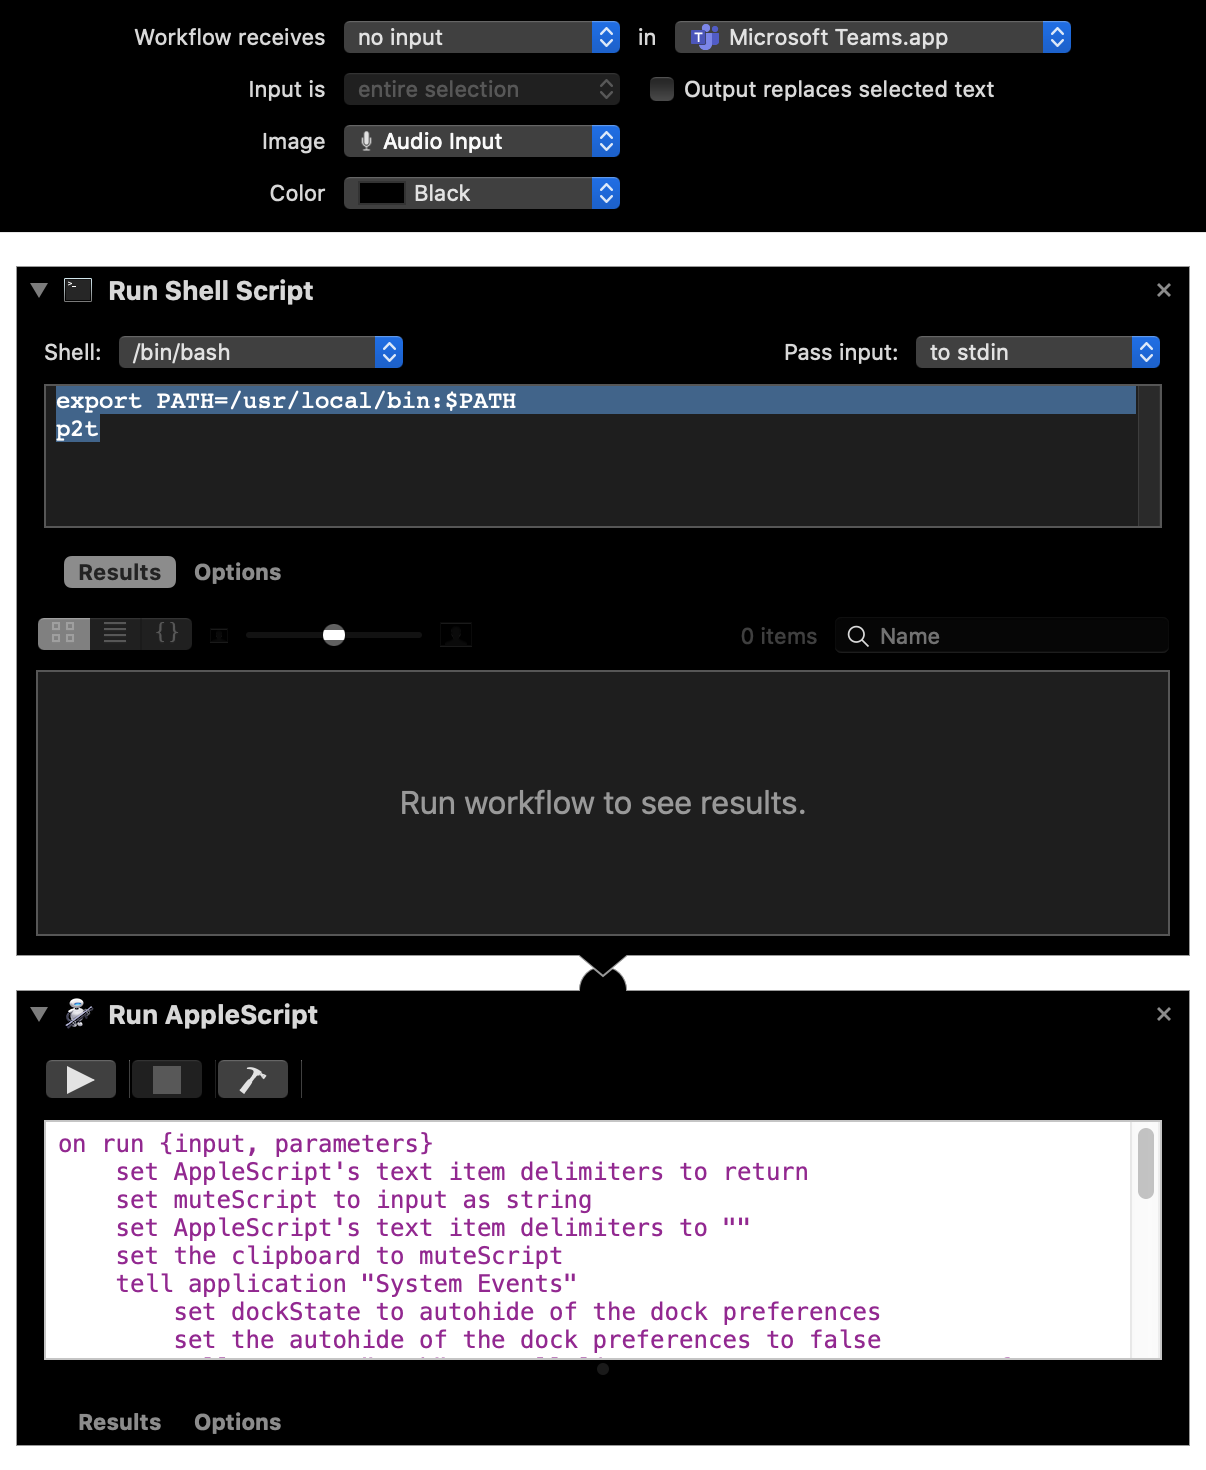
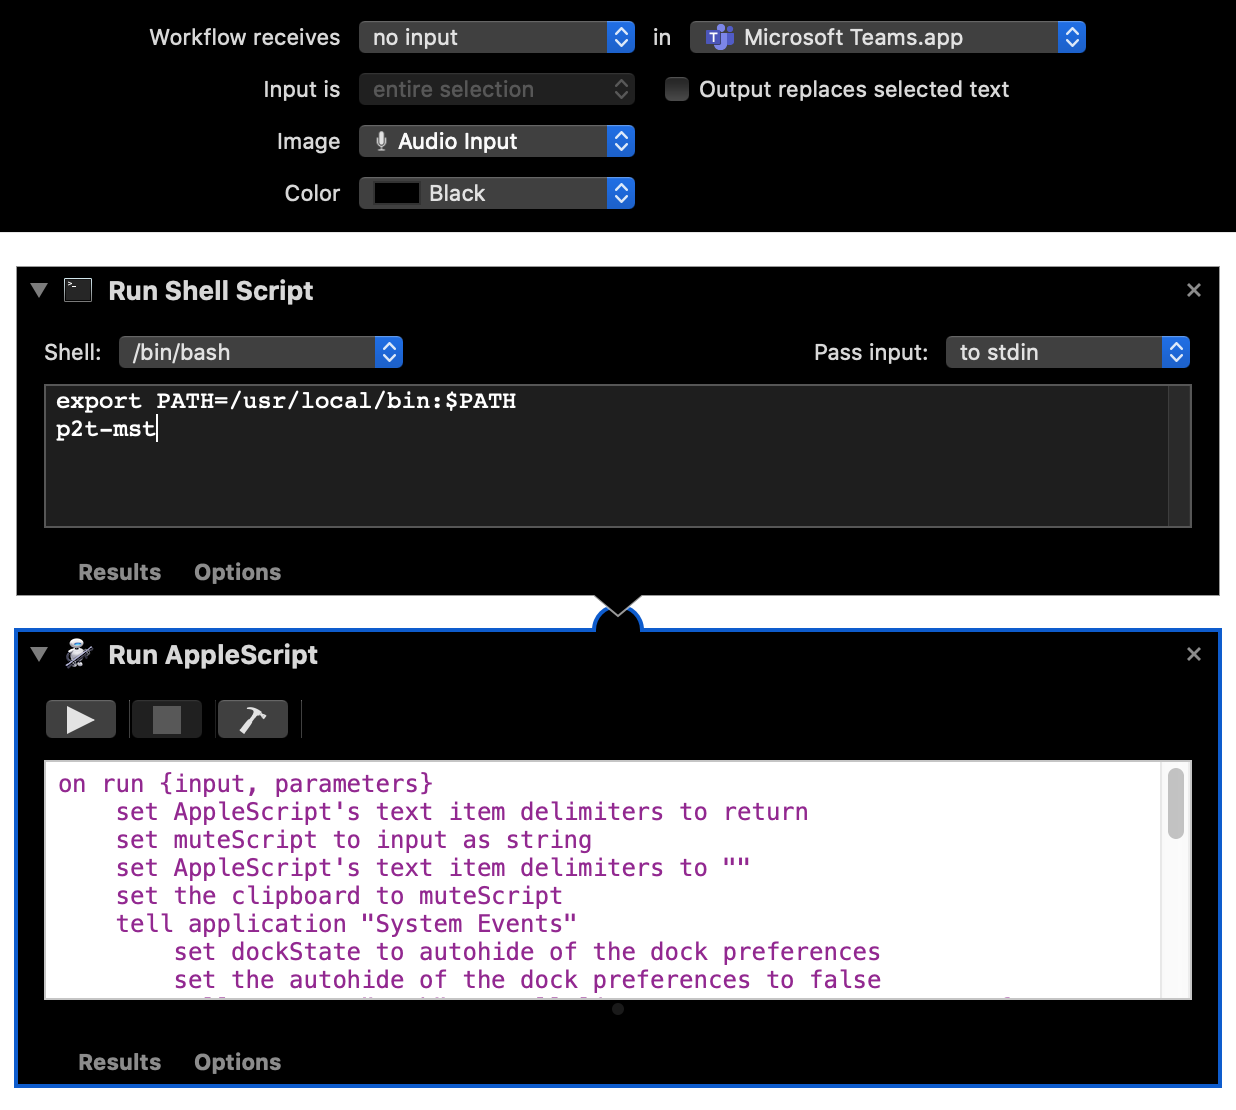
Update all code references from 'p2t' to 'p2t-mst' to match the npm package name

diff --git a/README.md b/README.md
@@ -4,14 +4,14 @@ This package contains code that when executed within the console of a Microsoft 
 ### Installation
 Basic installation:
 ```
-npm i -g p2t
+npm i -g p2t-mst
 ```
 
 **For MacOS users**
 
 This package includes a bin command that will set up hotkeys via Automator. Once run, there should be a new Automator quick action that will activate developer mode and toggle p2t in an MS Teams window. To access this, run the following after basic installation:
 ```
-p2t --setup
+p2t-mst --setup
 ```
 Since this command uses `defaults` to add this shortcut, it may be necessary to run with `sudo`. 
 
@@ -19,7 +19,7 @@ After this setup has been successfully performed on your Mac, pressing "⌘+⌥+
 
 ### Use
 **Basic Use:**
-- Running `p2t` in the command line should print the 
+- Running `p2t-mst` in the command line should print the 
 code for adding and toggling p2t functionality to stdout.
 - The p2t activation/toggle code can also be found in `lib/index.js`.
 - Pasting that code into the console of a meeting window should activate the p2t functionality.
